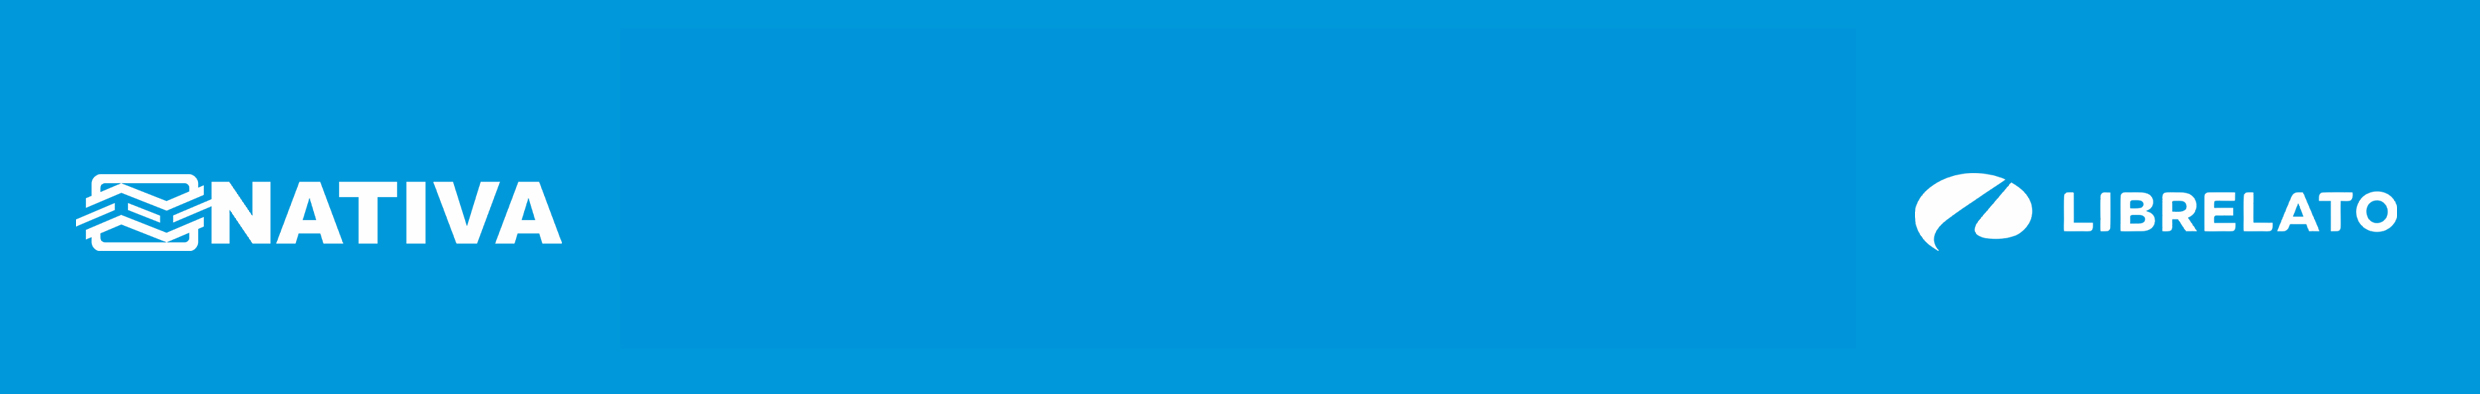
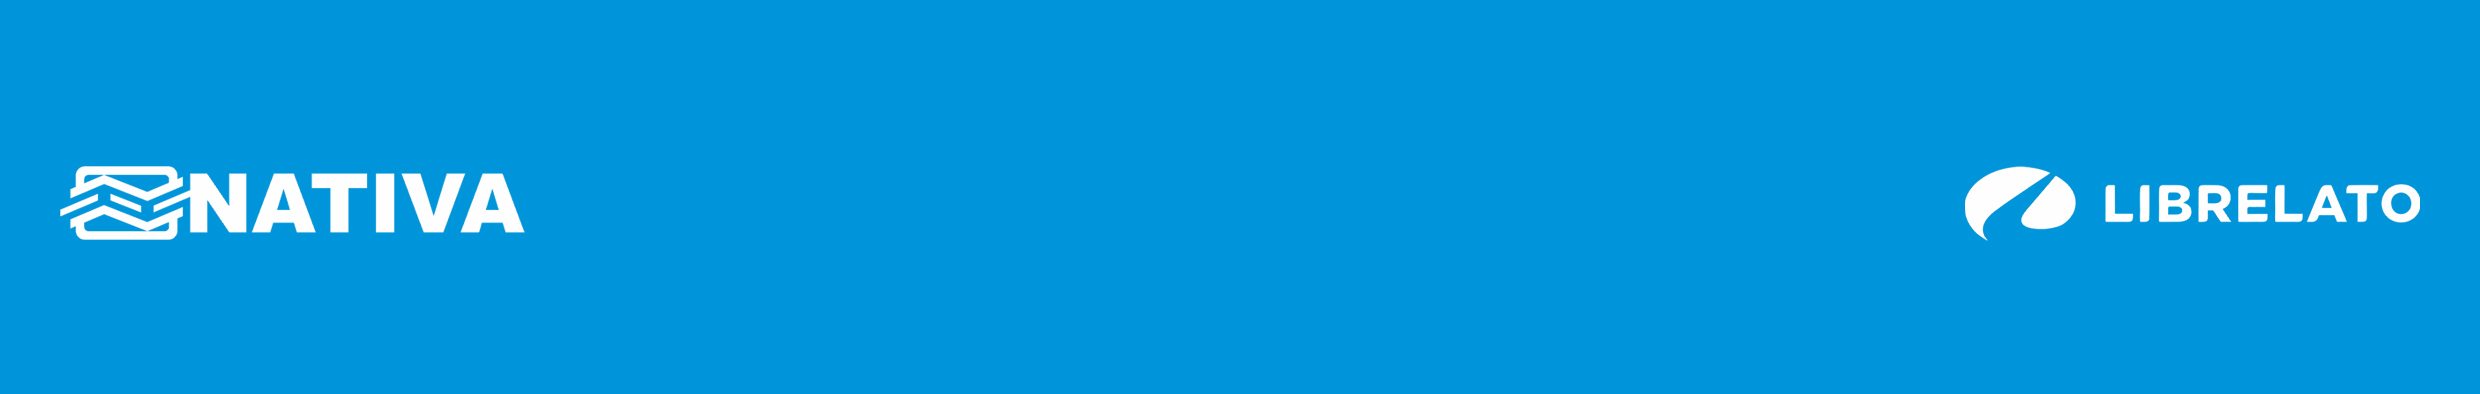
Correção impressão orçamento
Correção impressão orçamento

Changed region(s): [[0.0, 0.3959, 0.2484, 0.6396], [0.7452, 0.4264, 0.9935, 0.6091]]

diff --git a/system-concierge/src/app/components/print.purchase/print.purchase.component.ts b/system-concierge/src/app/components/print.purchase/print.purchase.component.ts
@@ -61,7 +61,7 @@ export class PrintPurchaseComponent {
           targetStyles: ['*'], // garante que os estilos globais sejam aplicados
           scanStyles: true, // use true se quiser escanear estilos inline também
           documentTitle: 'Pedido de compra',
-          font_size:'10pt'
+          font_size:'8pt'
         });
         print.style.display = 'none';
       }, 200);

diff --git a/system-concierge/src/app/components/print.purchase/print.purchase.component.html b/system-concierge/src/app/components/print.purchase/print.purchase.component.html
@@ -1,6 +1,6 @@
 <!-- Print -->
 <div id="print-sectionId" style="display: none;">
-    <img src="../../../../assets/image/purchase-order-barra.jpeg" alt="" width="800">
+    <img src="../../../../assets/image/barra-nativa.jpg" alt="" width="800">
     <table style="border: 1px solid #ddd; padding: 4px; width: 100%;">
         <tr>
             <td>
